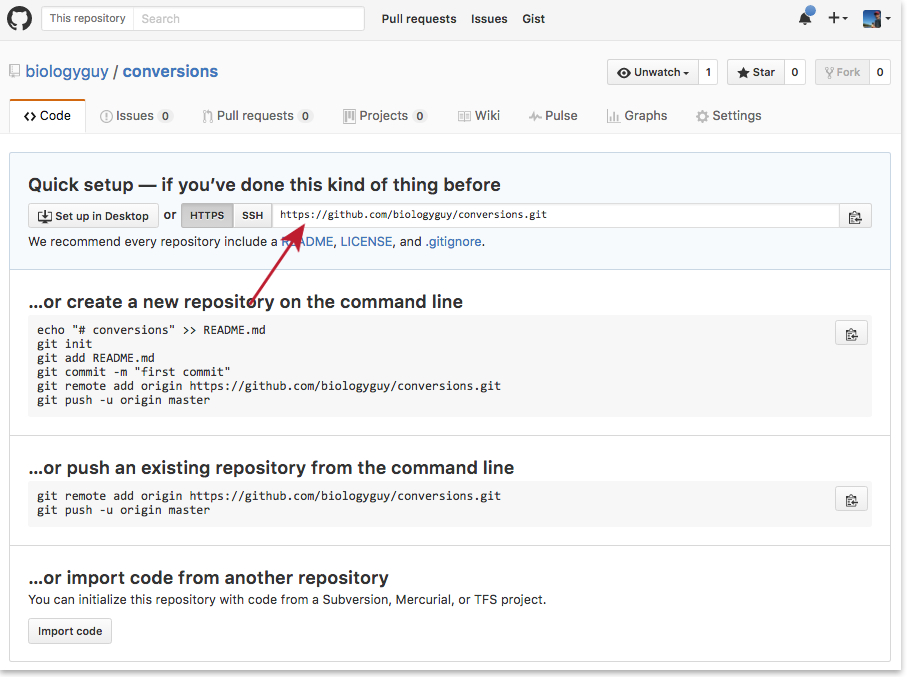
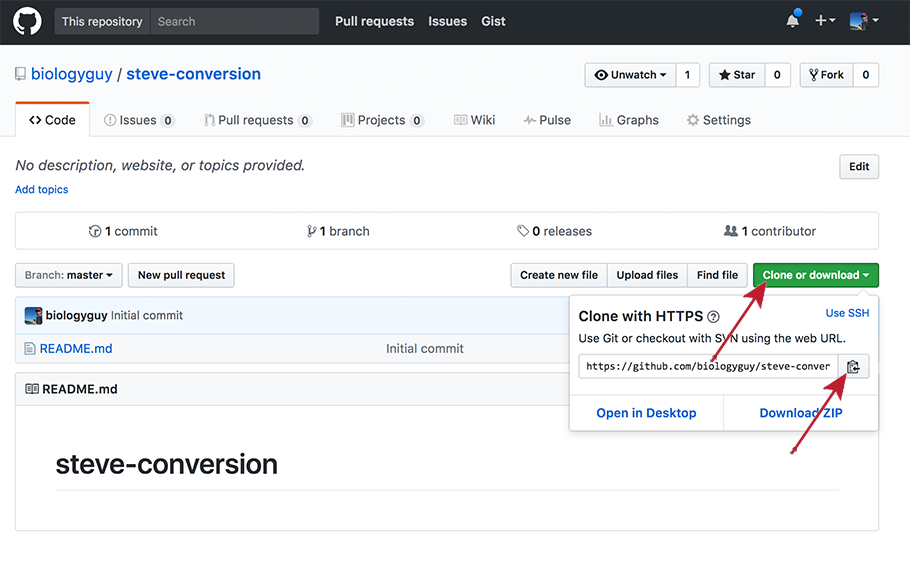
Update webpage view after creating new Git repository

diff --git a/_episodes/03-create.md b/_episodes/03-create.md
@@ -36,8 +36,8 @@ Name your repository "[your name]-conversion" (replacing [your name]
 
 &nbsp;
 
-As soon as the repository is created, GitHub displays a page with a URL
- and some information on how to configure your local repository:
+Once the new repository is created, you will need to copy the URL displayed
+ when you click on the 'Clone or download' button:
 
 ![Creating a Repository on GitHub (Step 3)](../fig/github-create-repo-03.png)
 
